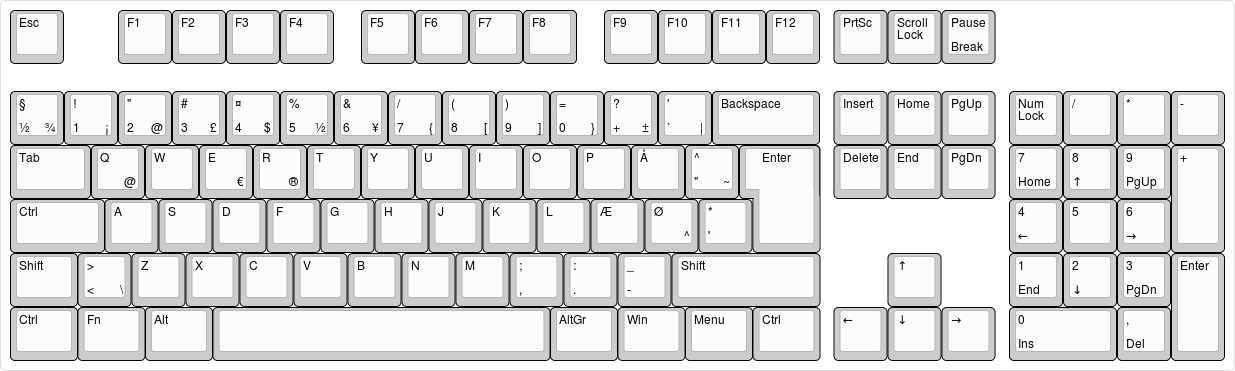
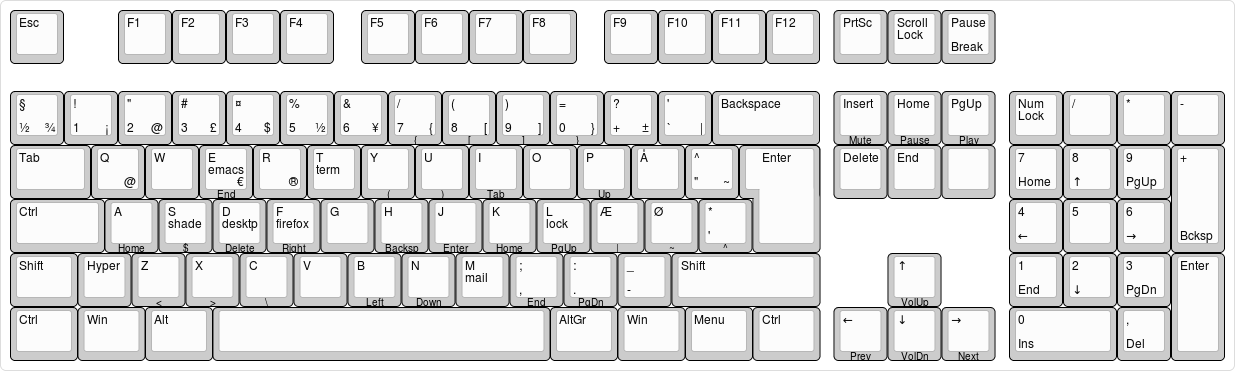
Updated Majestouch-2 full size

diff --git a/README.md b/README.md
@@ -6,19 +6,20 @@ Files related to mechanical keyboards and typing.
 
 ## Keyboard, FILCO Majestouch-2
 
-My [Majestouch-2 layout](http://www.keyboard-layout-editor.com/##@_backcolor=#ffffff&name=FILCO%20Majestouch-2&author=Thomas%20B%C3%B8vith&switchMount=cherry&switchBrand=cherry&switchType=MX1A-E1xx;&@=Esc&_x:1;&=F1&=F2&=F3&=F4&_x:0.5;&=F5&=F6&=F7&=F8&_x:0.5;&=F9&=F10&=F11&=F12&_x:0.25;&=PrtSc&=Scroll%20Lock&=Pause%0ABreak;&@_y:0.5;&=%C2%A7%0A%C2%BD%0A%0A%C2%BE&=!%0A1%0A%0A%C2%A1&=%22%0A2%0A%0A/@&=#%0A3%0A%0A%C2%A3&=%C2%A4%0A4%0A%0A$&=%25%0A5%0A%0A%C2%BD&=/&%0A6%0A%0A%C2%A5&=//%0A7%0A%0A%7B&=(%0A8%0A%0A%5B&=)%0A9%0A%0A%5D&=/=%0A0%0A%0A%7D&=?%0A+%0A%0A%C2%B1&=%27%0A%60%0A%0A%7C&_w:2;&=Backspace&_x:0.25;&=Insert&=Home&=PgUp&_x:0.25;&=Num%20Lock&=//&=*&=-;&@_w:1.5;&=Tab&=Q%0A%0A%0A/@&=W&=E%0A%0A%0A%E2%82%AC&=R%0A%0A%0A%C2%AE&=T&=Y&=U&=I&=O&=P&=%C3%85&=%5E%0A%22%0A%0A~&_x:0.25&w:1.25&h:2&w2:1.5&h2:1&x2:-0.25;&=Enter&_x:0.25;&=Delete&=End&=PgDn&_x:0.25;&=7%0AHome&=8%0A%E2%86%91&=9%0APgUp&_h:2;&=+;&@_w:1.75;&=Ctrl&=A&=S&=D&=F&=G&=H&=J&=K&=L&=%C3%86&=%C3%98%0A%0A%0A%5E&=*%0A%27&_x:4.75;&=4%0A%E2%86%90&=5&=6%0A%E2%86%92;&@_w:1.25;&=Shift&=%3E%0A%3C%0A%0A%5C&=Z&=X&=C&=V&=B&=N&=M&=/;%0A,&=/:%0A.&=/_%0A-&_w:2.75;&=Shift&_x:1.25;&=%E2%86%91&_x:1.25;&=1%0AEnd&=2%0A%E2%86%93&=3%0APgDn&_h:2;&=Enter;&@_w:1.25;&=Ctrl&_w:1.25;&=Fn&_w:1.25;&=Alt&_a:7&w:6.25;&=&_a:4&w:1.25;&=AltGr&_w:1.25;&=Win&_w:1.25;&=Menu&_w:1.25;&=Ctrl&_x:0.25;&=%E2%86%90&=%E2%86%93&=%E2%86%92&_x:0.25&w:2;&=0%0AIns&=,%0ADel) made with [Keyboard Layout Editor](http://www.keyboard-layout-editor.com/)
 
-![My Majestouch-2 layout](keyboard_majestouch-2/keyboard-layout.png)
+My [FILCO, Majestouch-2, full size (105 keys), Cherry MX Blue switches, ISO Danish layout](http://www.keyboard-layout-editor.com/##@_backcolor=#ffffff&name=FILCO,%20Majestouch-2,%20full%20size&author=Thomas%20B%C3%B8vith&switchMount=cherry&switchBrand=cherry&switchType=MX1A-E1xx;&@=Esc&_x:1;&=F1&=F2&=F3&=F4&_x:0.5;&=F5&=F6&=F7&=F8&_x:0.5;&=F9&=F10&=F11&=F12&_x:0.25;&=PrtSc&=Scroll%20Lock&=Pause%0ABreak;&@_y:0.5;&=%C2%A7%0A%C2%BD%0A%0A%C2%BE&=!%0A1%0A%0A%C2%A1&=%22%0A2%0A%0A/@&=#%0A3%0A%0A%C2%A3&=%C2%A4%0A4%0A%0A$&=%25%0A5%0A%0A%C2%BD&=/&%0A6%0A%0A%C2%A5&=//%0A7%0A%0A%7B%0A%7B&=(%0A8%0A%0A%5B%0A%5B&=)%0A9%0A%0A%5D%0A%5D&=/=%0A0%0A%0A%7D%0A%7D&=?%0A+%0A%0A%C2%B1&=%27%0A%60%0A%0A%7C&_w:2;&=Backspace&_x:0.25;&=Insert%0A%0A%0A%0AMute&=Home%0A%0A%0A%0APause&=PgUp%0A%0A%0A%0APlay&_x:0.25;&=Num%20Lock&=//&=*&=-;&@_w:1.5;&=Tab&=Q%0A%0A%0A/@&=W&=E%0A%0A%0A%E2%82%AC%0AEnd%0A%0Aemacs&=R%0A%0A%0A%C2%AE&=T%0A%0A%0A%0A%0A%0Aterm&=Y%0A%0A%0A%0A(&=U%0A%0A%0A%0A)&=I%0A%0A%0A%0ATab&=O&=P%0A%0A%0A%0AUp&=%C3%85&=%5E%0A%22%0A%0A~&_x:0.25&w:1.25&h:2&w2:1.5&h2:1&x2:-0.25;&=Enter&_x:0.25;&=Delete&=End&_a:7;&=&_x:0.25&a:4;&=7%0AHome&=8%0A%E2%86%91&=9%0APgUp&_h:2;&=+%0ABcksp;&@_w:1.75;&=Ctrl&=A%0A%0A%0A%0AHome&=S%0A%0A%0A%0A$%0A%0Ashade&=D%0A%0A%0A%0ADelete%0A%0Adesktp&=F%0A%0A%0A%0ARight%0A%0Afirefox&=G&=H%0A%0A%0A%0ABacksp&=J%0A%0A%0A%0AEnter&=K%0A%0A%0A%0AHome&=L%0A%0A%0A%0APgUp%0A%0Alock&=%C3%86%0A%0A%0A%0A%7C&=%C3%98%0A%0A%0A%0A~&=*%0A%27%0A%0A%0A%5E&_x:4.75;&=4%0A%E2%86%90&=5&=6%0A%E2%86%92;&@_w:1.25;&=Shift&=Hyper&=Z%0A%0A%0A%0A%3C&=X%0A%0A%0A%0A%3E&=C%0A%0A%0A%0A%5C&=V&=B%0A%0A%0A%0ALeft&=N%0A%0A%0A%0ADown&=M%0A%0A%0A%0A%0A%0Amail&=/;%0A,%0A%0A%0AEnd&=/:%0A.%0A%0A%0APgDn&=/_%0A-&_w:2.75;&=Shift&_x:1.25;&=%E2%86%91%0A%0A%0A%0AVolUp&_x:1.25;&=1%0AEnd&=2%0A%E2%86%93&=3%0APgDn&_h:2;&=Enter;&@_w:1.25;&=Ctrl&_w:1.25;&=Win&_w:1.25;&=Alt&_a:7&w:6.25;&=&_a:4&w:1.25;&=AltGr&_w:1.25;&=Win&_w:1.25;&=Menu&_w:1.25;&=Ctrl&_x:0.25;&=%E2%86%90%0A%0A%0A%0APrev&=%E2%86%93%0A%0A%0A%0AVolDn&=%E2%86%92%0A%0A%0A%0ANext&_x:0.25&w:2;&=0%0AIns&=,%0ADel) made with [Keyboard Layout Editor](http://www.keyboard-layout-editor.com/)
+
+![My FILCO Majestouch-2 full size layout](keyboard_majestouch-2/keyboard-layout.png)
 
 ## Keyboard, FILCO MINILA
 
-My [MINILA layout](http://www.keyboard-layout-editor.com/##@_name=FILCO%20Majestouch%20MINILA&author=Thomas%20B%C3%B8vith&notes=Super/_L+Alt/_L%20/:%20for%20application%20shortcuts%0A%0AControl/_L+Alt/_L/:%20for%20other%20shortcuts%0A%0AControl/_L+%C3%A6%C3%B8%20/:%20switch%20terminal%20tabs%0A%0AControl/_L+1234%20/:%20switch%20panel%20workshapes%0A%0AControl/_L+Alt/_L+1234%20/:%20move%20window%20to%20workspace%0A&switchMount=cherry;&@_f:2;&=Esc&=!%0A1%0A%0A%C2%A1%0AF1&=%22%0A2%0A%0A/@%0AF2&=#%0A3%0A%0A%C2%A3%0AF3&=%C2%A4%0A4%0A%0A$%0AF4&=%25%0A5%0A%0A%C2%BD%0AF5&=/&%0A6%0A%0A%C2%A5%0AF6&=//%0A7%0A%0A%7B%0AF7&=(%0A8%0A%0A%5B%0AF8&=)%0A9%0A%0A%5D%0AF9&=/=%0A0%0A%0A%7D%0AF10&=?%0A+%0A%0A%C2%B1%0AF11&=%27%0A%60%0A%0A%7C%0AF12&=%C2%A7%0A%C2%BD%0A%0A%C2%BE&=Back;&@_w:1.5;&=Tab&=Q&=W&=E%0A%0A%0A%0AUp%0A%0AEmacs&=R&=T%0A%0A%0A%0A%0A%0ATerminal&=Y&=U&=I%0A%0A%0A%0APrint&=O%0A%0A%0A%0AScLk&=P%0A%0A%0A%0ACompse%0A%0AScDump&=%C3%85&=%5E%0A%22%0A%0A~&_x:0.25&w:1.25&h:2&h2:1&x2:-0.25;&=Enter;&@_w:1.75;&=Control&=A%0A%0A%0A%0A%0A%0AClipAct&=S%0A%0A%0A%0ALeft%0A%0AShade&=D%0A%0A%0A%0ADown%0A%0ADesktop&=F%0A%0A%0A%0ARight%0A%0AFirefox&=G&=H&=J%0A%0A%0A%0AInsert&=K%0A%0A%0A%0AHome&=L%0A%0A%0A%0APgUp%0A%0ALockScr&=%C3%86%0APrev%20ter%0A%0A%0ABackSp%0A%0AVolDn&=%C3%98%0ANext%20ter%0A%0A%0A%0A%0AVolUp&=*%0A%27%0A%0A%0A%0A%0AMute;&@=Shift&=%3E%0A%3C%0A%0A%5C&=Z&=X&=C%0A%0A%0A%0A%0A%0AChrome&=V%0A%0A%0A%0A%0A%0AClipbrd&=B&=N&=M%0A%0A%0A%0ADelete%0A%0AEmail&=/;%0A.%0A%0A%0AEnd&=/:%0A.%0A%0A%0APgDn&=/_%0A-&=Shift&=Up&=Delete;&@_w:1.75;&=Control&_w:1.25;&=Super&_w:1.25;&=Alt&_w:1.25;&=Fn&_a:7&w:3;&=&_a:4&w:1.25;&=Fn&_w:1.25;&=AltGr&=Menu&=Left&=Down&=Right) made with [Keyboard Layout Editor](http://www.keyboard-layout-editor.com/)
+My [FILCO, Majestouch MINILA, 60% compact (68 keys), ISO Danish layout](http://www.keyboard-layout-editor.com/##@_name=FILCO%20Majestouch%20MINILA&author=Thomas%20B%C3%B8vith&notes=Super/_L+Alt/_L%20/:%20for%20application%20shortcuts%0A%0AControl/_L+Alt/_L/:%20for%20other%20shortcuts%0A%0AControl/_L+%C3%A6%C3%B8%20/:%20switch%20terminal%20tabs%0A%0AControl/_L+1234%20/:%20switch%20panel%20workshapes%0A%0AControl/_L+Alt/_L+1234%20/:%20move%20window%20to%20workspace%0A&switchMount=cherry;&@_f:2;&=Esc&=!%0A1%0A%0A%C2%A1%0AF1&=%22%0A2%0A%0A/@%0AF2&=#%0A3%0A%0A%C2%A3%0AF3&=%C2%A4%0A4%0A%0A$%0AF4&=%25%0A5%0A%0A%C2%BD%0AF5&=/&%0A6%0A%0A%C2%A5%0AF6&=//%0A7%0A%0A%7B%0AF7&=(%0A8%0A%0A%5B%0AF8&=)%0A9%0A%0A%5D%0AF9&=/=%0A0%0A%0A%7D%0AF10&=?%0A+%0A%0A%C2%B1%0AF11&=%27%0A%60%0A%0A%7C%0AF12&=%C2%A7%0A%C2%BD%0A%0A%C2%BE&=Back;&@_w:1.5;&=Tab&=Q&=W&=E%0A%0A%0A%0AUp%0A%0AEmacs&=R&=T%0A%0A%0A%0A%0A%0ATerminal&=Y&=U&=I%0A%0A%0A%0APrint&=O%0A%0A%0A%0AScLk&=P%0A%0A%0A%0ACompse%0A%0AScDump&=%C3%85&=%5E%0A%22%0A%0A~&_x:0.25&w:1.25&h:2&h2:1&x2:-0.25;&=Enter;&@_w:1.75;&=Control&=A%0A%0A%0A%0A%0A%0AClipAct&=S%0A%0A%0A%0ALeft%0A%0AShade&=D%0A%0A%0A%0ADown%0A%0ADesktop&=F%0A%0A%0A%0ARight%0A%0AFirefox&=G&=H&=J%0A%0A%0A%0AInsert&=K%0A%0A%0A%0AHome&=L%0A%0A%0A%0APgUp%0A%0ALockScr&=%C3%86%0APrev%20ter%0A%0A%0ABackSp%0A%0AVolDn&=%C3%98%0ANext%20ter%0A%0A%0A%0A%0AVolUp&=*%0A%27%0A%0A%0A%0A%0AMute;&@=Shift&=%3E%0A%3C%0A%0A%5C&=Z&=X&=C%0A%0A%0A%0A%0A%0AChrome&=V%0A%0A%0A%0A%0A%0AClipbrd&=B&=N&=M%0A%0A%0A%0ADelete%0A%0AEmail&=/;%0A.%0A%0A%0AEnd&=/:%0A.%0A%0A%0APgDn&=/_%0A-&=Shift&=Up&=Delete;&@_w:1.75;&=Control&_w:1.25;&=Super&_w:1.25;&=Alt&_w:1.25;&=Fn&_a:7&w:3;&=&_a:4&w:1.25;&=Fn&_w:1.25;&=AltGr&=Menu&=Left&=Down&=Right) made with [Keyboard Layout Editor](http://www.keyboard-layout-editor.com/)
 
-![My MINILA layout](keyboard_minila/keyboard-layout.png)
+![My FILCO MINILA layout](keyboard_minila/keyboard-layout.png)
 
 ## Keyboard, Vortex Pok3er
 
-My [Pok3r layout](http://www.keyboard-layout-editor.com/##@_backcolor=#ffffff&name=Pok3r&author=Thomas%20B%C3%B8vith&notes=Vortex%20KBC%20Pok3r,%20black%20with%20backlight,%20red%20Cherry%20MX%20switches.&switchMount=cherry&switchBrand=cherry&switchType=MX1A-L1xx&pcb:true;&@=Esc%0A%0A%0A%0A$&=!%0A1%0A%0A%0AF1&=%22%0A2%0A%0A/@%0AF2&=#%0A3%0A%0A%C2%A3%0AF3&=%C2%A4%0A4%0A%0A$%0AF4&=%25%0A5%0A%0A%C2%BD%0AF5&=/&%0A6%0A%0A%C2%A5%0AF6&=//%0A7%0A%0A%7B%0AF7&=(%0A8%0A%0A%5B%0AF8&=)%0A9%0A%0A%5D%0AF9&=/=%0A0%0A%0A%7D%0AF10&=?%0A+%0A%0A%C2%B1%0AF11&=%60%0A%27%0A%0A%7C%0AF12&_w:2;&=Backspace;&@_w:1.5;&=Tab&=Q%0A%0A%0A%0AScrDmp&=W%0A%0A%0A%0AEnter&=E%0A%0A%0A%E2%82%AC%0AEnd&=R%0A%0A%0A%0A(%20)&=T%0A%0A%0A%0A%7B%20%7D&=Y%0A%0A%0A%0A%5B%20%5D&=U%0A%0A%0A%0APgUp&=I%0A%0A%0A%0AUp&=O%0A%0A%0A%0APgDn&=P%0A%0A%0A%0AUp&=%C3%85%0A%0A%0A%0A%7C&=%5E%0A%22%0A%0A~%0AComp&_x:0.25&w:1.25&w2:1.5&x2:-0.25;&=Enter;&@_w:1.75;&=Ctrl&=A%0A%0A%0A%0AHome&=S%0A%0A%0A%0AIns&=D%0A%0A%0A%0ADel&=F%0A%0A%0A%0ARight&=G%0A%0A%0A%0A//&=H%0A%0A%0A%0ABackSp&=J%0A%0A%0A%0ALeft&=K%0A%0A%0A%0ADown&=L%0A%0A%0A%0ARight&=%C3%86%0A%0A%0A%0ABackSp&=%C3%98%0A%0A%0A%0AVolDn&=*%0A%27%0A%0A%0AVolUp;&@_w:1.25;&=Shift&=%3E%0A%3C%0A%0A%5C&=Z%0A%0A%0A%0AMenu&=X%0A%0A%0A%0ABcklight&=C%0A%0A%0A%0A~&=V%0A%0A%0A%0A%E2%80%93&=B%0A%0A%0A%0ALeft&=N%0A%0A%0A%0ADown&=M%0A%0A%0A%0ADefault&=/;%0A,%0A%0A%0ALayer%202&=/:%0A.%0A%0A%0ALayer%203&=/_%0A-%0A%0A%0ALayer%204&_w:2.75;&=Shift;&@_w:1.25;&=FN&_w:1.25;&=Super&_w:1.25;&=Alt&_a:7&w:6.25;&=&_a:4&w:1.25;&=AltGr&_w:1.25;&=Super&_w:1.25;&=PN&_w:1.25;&=Ctrl) made with [Keyboard Layout Editor](http://www.keyboard-layout-editor.com/)
+My [Vortex Pok3r layout](http://www.keyboard-layout-editor.com/##@_backcolor=#ffffff&name=Pok3r&author=Thomas%20B%C3%B8vith&notes=Vortex%20KBC%20Pok3r,%20black%20with%20backlight,%20red%20Cherry%20MX%20switches.&switchMount=cherry&switchBrand=cherry&switchType=MX1A-L1xx&pcb:true;&@=Esc%0A%0A%0A%0A$&=!%0A1%0A%0A%0AF1&=%22%0A2%0A%0A/@%0AF2&=#%0A3%0A%0A%C2%A3%0AF3&=%C2%A4%0A4%0A%0A$%0AF4&=%25%0A5%0A%0A%C2%BD%0AF5&=/&%0A6%0A%0A%C2%A5%0AF6&=//%0A7%0A%0A%7B%0AF7&=(%0A8%0A%0A%5B%0AF8&=)%0A9%0A%0A%5D%0AF9&=/=%0A0%0A%0A%7D%0AF10&=?%0A+%0A%0A%C2%B1%0AF11&=%60%0A%27%0A%0A%7C%0AF12&_w:2;&=Backspace;&@_w:1.5;&=Tab&=Q%0A%0A%0A%0AScrDmp&=W%0A%0A%0A%0AEnter&=E%0A%0A%0A%E2%82%AC%0AEnd&=R%0A%0A%0A%0A(%20)&=T%0A%0A%0A%0A%7B%20%7D&=Y%0A%0A%0A%0A%5B%20%5D&=U%0A%0A%0A%0APgUp&=I%0A%0A%0A%0AUp&=O%0A%0A%0A%0APgDn&=P%0A%0A%0A%0AUp&=%C3%85%0A%0A%0A%0A%7C&=%5E%0A%22%0A%0A~%0AComp&_x:0.25&w:1.25&w2:1.5&x2:-0.25;&=Enter;&@_w:1.75;&=Ctrl&=A%0A%0A%0A%0AHome&=S%0A%0A%0A%0AIns&=D%0A%0A%0A%0ADel&=F%0A%0A%0A%0ARight&=G%0A%0A%0A%0A//&=H%0A%0A%0A%0ABackSp&=J%0A%0A%0A%0ALeft&=K%0A%0A%0A%0ADown&=L%0A%0A%0A%0ARight&=%C3%86%0A%0A%0A%0ABackSp&=%C3%98%0A%0A%0A%0AVolDn&=*%0A%27%0A%0A%0AVolUp;&@_w:1.25;&=Shift&=%3E%0A%3C%0A%0A%5C&=Z%0A%0A%0A%0AMenu&=X%0A%0A%0A%0ABcklight&=C%0A%0A%0A%0A~&=V%0A%0A%0A%0A%E2%80%93&=B%0A%0A%0A%0ALeft&=N%0A%0A%0A%0ADown&=M%0A%0A%0A%0ADefault&=/;%0A,%0A%0A%0ALayer%202&=/:%0A.%0A%0A%0ALayer%203&=/_%0A-%0A%0A%0ALayer%204&_w:2.75;&=Shift;&@_w:1.25;&=FN&_w:1.25;&=Super&_w:1.25;&=Alt&_a:7&w:6.25;&=&_a:4&w:1.25;&=AltGr&_w:1.25;&=Super&_w:1.25;&=PN&_w:1.25;&=Ctrl) made with [Keyboard Layout Editor](http://www.keyboard-layout-editor.com/)
 
 ![My Pok3r layout](keyboard_pok3r/keyboard-layout.png)
 
